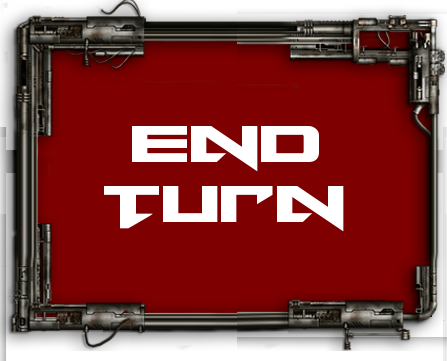
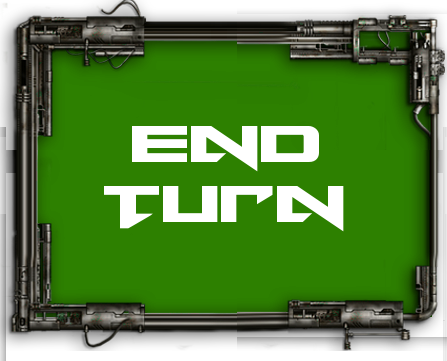
Enemies now work in queue.

diff --git a/game/js/game.js b/game/js/game.js
@@ -4,6 +4,7 @@ var game = new Phaser.Game(800, 600, Phaser.CANVAS, '', { preload: preload, crea
 var graphics;
 var hexGrid;
 var endTurnButton;
+var enemyQueue = [];
 var turns = {player: 0,
             enemy: 1};
 var turn = turns.player;
@@ -19,6 +20,7 @@ function preload() {
     game.load.image('moveCard', "assets/framemove.png");
     game.load.image('cancelCard', "assets/framecancel.png");
     game.load.image('endTurn', "assets/frameend.png");
+    game.load.image('enemyTurn', "assets/frameenemyturn.png");
     game.load.image('fireCard', "assets/framefire.png");
     game.load.image('health', "assets/health.png");
     game.load.image('enemyMech', "assets/enemy.png");
@@ -38,9 +40,10 @@ function create() {
     endTurnButton.scale.setTo(CARDSCALE);
     endTurnButton.inputEnabled = true;
     endTurnButton.events.onInputDown.add(function() {
-        for (i=0; i < enemies.length; i++) {
-            enemies[i].routine();
-        }
+        console.log("End turn");
+        changeTurn(turns.enemy);
+        enemyQueue = enemies.slice();
+        endTurnButton.loadTexture('enemyTurn');
         
         for (i=0; i < mechs.length; i++) {
             for (j=0; j < mechs[i].abilities.length; j++) {
@@ -86,6 +89,13 @@ function create() {
 var t = 0;
 
 function update() {
+    if(turn === turns.enemy && !animInProgress) {
+        if (t >= 15) {
+            t = 0;
+            console.log(turn);
+            processQueue();
+        } else t++;
+    }
 
 }
 
@@ -100,6 +110,35 @@ function remove(array, element) {
     
     if (index !== -1) {
         array.splice(index, 1);
+    }
+}
+
+function changeTurn(newTurn) {
+    turn = newTurn;
+    if (newTurn === turns.player) {
+        for (x = 0; x < hexGrid.hexTiles.length; x++) {
+            for(y = 0; y < hexGrid.hexTiles[x].length; y++) {
+                hexGrid.hexTiles[x][y].sprite.inputEnabled = true;
+            }
+        }
+        endTurnButton.inputEnabled = true;
+        endTurnButton.loadTexture('endTurn');
+    } else {
+        for (x = 0; x < hexGrid.hexTiles.length; x++) {
+            for(y = 0; y < hexGrid.hexTiles[x].length; y++) {
+                hexGrid.hexTiles[x][y].sprite.inputEnabled = false;
+            }
+        }
+        endTurnButton.inputEnabled = false;
+    }
+}
+
+function processQueue() {
+    if (enemyQueue.length == 0) {
+        changeTurn(turns.player);
+    } else {
+        var item = enemyQueue.pop();
+        item.routine();
     }
 }
 

diff --git a/game/js/fx.js b/game/js/fx.js
@@ -2,8 +2,10 @@ var tween;
 var fxSpeed = 3;
 var deleteAfterAnim = [];
 var queue = [];
+var animInProgress = false;
 
 function projectileEffect(sX, sY, eX, eY, spriteName) {
+    animInProgress = true;
     var sHex = hexGrid.hexTiles[sX][sY];
     var eHex = hexGrid.hexTiles[eX][eY];
     var coefX = eHex.truex - sHex.truex;
@@ -17,7 +19,6 @@ function projectileEffect(sX, sY, eX, eY, spriteName) {
     bulletSprite.scale.setTo(2);
     bulletSprite.rotation = angleRad + (Math.PI / 2);
     tween = game.add.tween(bulletSprite).to({x: eHex.truex, y: eHex.truey}, distance * fxSpeed);
-    tween.onStart.add(prepareForEffect, this);
     tween.onComplete.add(function() {
         bulletSprite.destroy();
         var expl = game.add.sprite(eHex.truex, eHex.truey, 'explosion');
@@ -27,34 +28,20 @@ function projectileEffect(sX, sY, eX, eY, spriteName) {
         expl.animations.play('explode', 15, false);
         anim.onComplete.add(function() {
             expl.destroy();
+            afterEffect();
         }, this);
-        afterEffect();
     }, this);
     tween.start();
 }
 
 function prepareForEffect() {
-    for (x = 0; x < hexGrid.hexTiles.length; x++) {
-        for(y = 0; y < hexGrid.hexTiles[x].length; y++) {
-            hexGrid.hexTiles[x][y].sprite.inputEnabled = false;
-        }
-    }
-    endTurnButton.inputEnabled = false;
+    
 }
 
 function afterEffect() {
-    for (x = 0; x < hexGrid.hexTiles.length; x++) {
-        for(y = 0; y < hexGrid.hexTiles[x].length; y++) {
-            hexGrid.hexTiles[x][y].sprite.inputEnabled = true;
-        }
-    }
-    endTurnButton.inputEnabled = true;
+    animInProgress = false;
     for (i = 0; i < deleteAfterAnim.length; i++) {
         deleteAfterAnim[i].destroy();
     }
     deleteAfterAnim = [];
-}
-
-function processQueue() {
-    
 }

diff --git a/game/js/enemy.js b/game/js/enemy.js
@@ -18,7 +18,7 @@ function EnemyMech(x, y) {
         EnemyShoot(this);
     }
     this.clickEvent = function() {
-        this.routine();
+        
     }
     this.draw = function() {
         this.sprite = game.add.sprite(this.truex, this.truey, this.spriteName);
